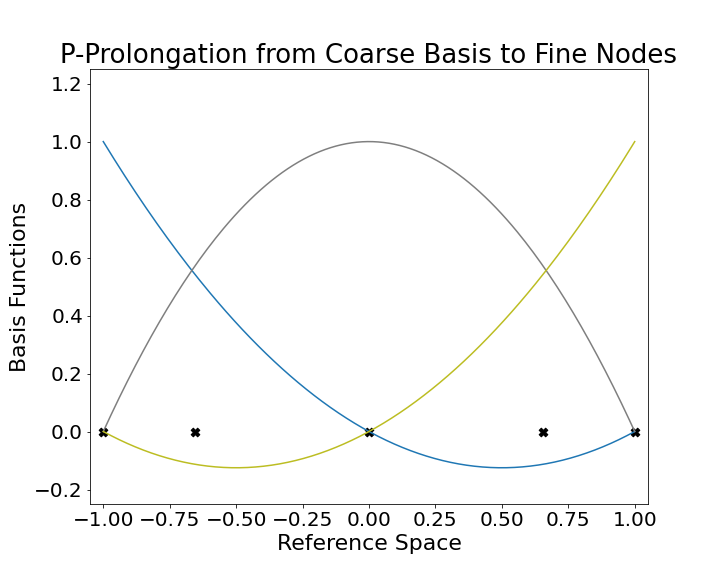
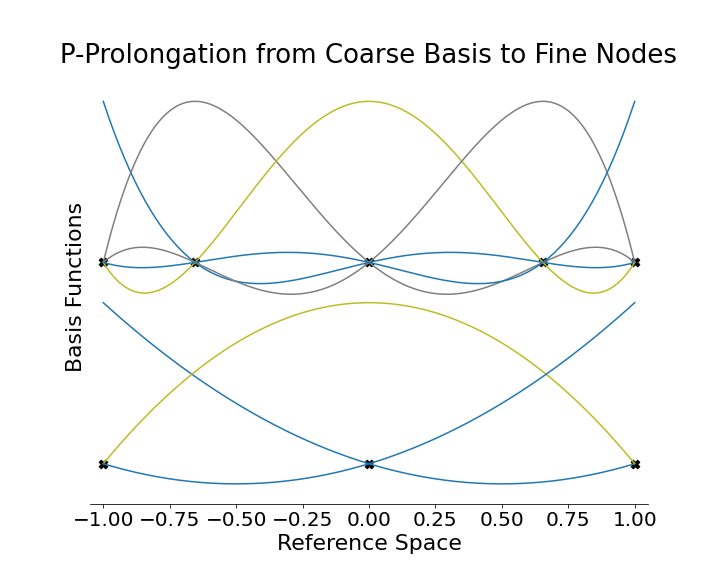
start on h-multigrid

diff --git a/source/03-LocalFourierAnalysis/03-multigrid.tex b/source/03-LocalFourierAnalysis/03-multigrid.tex
@@ -25,6 +25,7 @@ The grid transfer operators can be represented elementwise and can thus be easil
 
 The prolongation operator from the coarse to the fine grid interpolates low-order basis functions at the nodes for the high-order basis functions.
 Figure \ref{fig:pProlongation} shows the evaluation of second order basis function on the Gauss-Lobatto nodes for a fourth order basis.
+This basis evaluation operation will be extended for LFA of h-multigrid and BDDC.
 
 \begin{figure}[!ht]
   \centering
@@ -33,7 +34,7 @@ Figure \ref{fig:pProlongation} shows the evaluation of second order basis functi
   \label{fig:pProlongation}
 \end{figure}
 
-The prolongation operator can be therefore be represented by
+With this coarse to fine basis interpolation, the prolongation operator can be be represented by
 \begin{equation}
 \begin{tabular}{c}
 ${\color{burgundy}\mathbf{P}}_{\text{ctof}} = \mathbf{P}_f^T \mathbf{G}_f^T {\color{burgundy}\mathbf{P}}_e \mathbf{G}_c \mathbf{P}_c$\\
@@ -43,7 +44,15 @@ ${\color{burgundy}\mathbf{P}}_e = {\color{blue(ncs)}\mathbf{I}} {\color{applegre
 where ${\color{blue(ncs)}\mathbf{B}}_{ctof}$ is an interpolation operator from the coarse grid basis to the fine grid basis, $\mathbf{P}_f$ and $\mathbf{G}_f$ are the fine grid element assembly operators, $\mathbf{P}_c$ and $\mathbf{G}_c$ are the coarse grid element assembly operators, and ${\color{applegreen}\mathbf{D}}_{\text{scale}}$ is a scaling operator to account for node multiplicity across element interfaces.
 Restriction from the fine grid to the coarse grid is given by the transpose, ${\color{burgundy}\mathbf{R}}_{\text{ftoc}} = {\color{burgundy}\mathbf{P}}_{\text{ctof}}^T$.
 
-TODO: INSERT CHART SHOWING P-MULTIGRID PROLONGATION OPERATION
+It is useful to think of the p-prolongation operation as an interpolation operation between the coarse and fine grids, but in practice it can be easier to construct the prolongation basis ${\color{blue(ncs)}\mathbf{B}}_{ctof}$ from the coarse and fine grid interpolation operators, provided that both bases use the same quadrature space.
+\begin{equation}
+\begin{tabular}{c c}
+${\color{blue(ncs)}\mathbf{B}}_f = \mathbf{Q} \mathbf{R},$ & ${\color{blue(ncs)}\mathbf{B}}_{ctof} = \mathbf{R}^{-1} \mathbf{Q}^T {\color{blue(ncs)}\mathbf{B}}_c$
+\end{tabular}
+\label{eq:p_prolong_basis}
+\end{equation}
+In Equation \ref{eq:p_prolong_basis}, we form the interpolation operation between the coarse grid from the coarse grid interpotation operator and the QR factorization of the fine grid interpolation operator.
+Note that in the case of H1 Lagrange bases, this factorization will produce the same coarse to fine grid interpolation operator as evaluating the coarse grid basis functions at the fine grid nodes.
 
 Following the derivation from Section \ref{sec:lfahighorder}, we can derive the symbols of ${\color{burgundy}\mathbf{P}}_{\text{ctof}}$ and ${\color{burgundy}\mathbf{R}}_{\text{ftoc}}$.
 
@@ -70,4 +79,39 @@ The matrices $\mathbf{Q}_f$ and $\mathbf{Q}_c$ are the localization mappings for
 % -- H-Multigrid --------------------------------------------------------------
 \subsection{H-Multigrid}
 
-TODO: H MULTIGRID
+In h-multigrid, the different grids have the same polynomial order of finite elements but these elements are amalgamated into increasingly larger elements.
+For LFA of h-multigrid, we introduce the concept of macro-element bases.
+With macro-element bases, the grid transfer operators can be still represented elementwise and can thus be easily represented in the form of Equation \ref{eq:libceed_representation}.
+
+A marco-element basis is formed by amalgamating two or more finite element bases.
+Each micro-element has separate quadrature spaces, so the basis functions for each sub-element, or micro-element, are defined as zero on the portions of the domain not included in the given micro-element.
+In effect, the basis interpolation and gradient operations for the marco-element provide a micro-element restriction and micro-element basis operation together.
+
+\begin{figure}[!ht]
+  \centering
+  \includegraphics[width=0.48\textwidth]{../img/hProlongation}
+  \caption{H-Prolongation from Coarse Basis to Fine Basis Points}
+  \label{fig:hProlongation}
+\end{figure}
+
+Following the derivation from Section \ref{sec:lfahighorder}, we can derive the symbols of ${\color{burgundy}\mathbf{P}}_{\text{ctof}}$ and ${\color{burgundy}\mathbf{R}}_{\text{ftoc}}$.
+
+\begin{definition}
+The symbol of the h-prolongation operator is given by
+\begin{equation}
+\tilde{{\color{burgundy}\mathbf{P}}}_{\text{ctof}} \left( \theta \right) = \mathbf{Q}_f^T \left( {\color{burgundy}\mathbf{P}}_e \odot \left[ e^{\imath \sum_d \left( \mathbf{x}_{i, f} - \mathbf{x}_{j, c} \right) \mathbf{\theta} / \mathbf{h}} \right] \right) \mathbf{Q}_c
+\end{equation}
+where $i \in \left[ 0, 1, \dots, nelem * \left( p - 1 \right) + 1 \right]$, $h$ is the length of the macro-element, and $j \in \left[ 0, 1, \dots, p \right]$.
+The matrices $\mathbf{Q}_f$ and $\mathbf{Q}_c$ are the localization mappings for the fine and coarse grid, respectively, and the marco-element h-prolongation operator is given by ${\color{burgundy}\mathbf{P}}_e = {\color{blue(ncs)}\mathbf{I}} {\color{applegreen}\mathbf{D}}_{\text{scale}} {\color{blue(ncs)}\mathbf{B}}_{\text{ctof}}$.
+\label{def:h_prolongation_symbol}
+\end{definition}
+
+\begin{definition}
+The symbol of h-restriction operator is given by the expression
+\begin{equation}
+\tilde{{\color{burgundy}\mathbf{R}}}_{\text{ftoc}} \left( \theta \right) = \mathbf{Q}_c^T \left( {\color{burgundy}\mathbf{R}}_e \odot \left[ e^{\imath \sum_d \left( \mathbf{x}_{i, c} - \mathbf{x}_{j, f} \right) \mathbf{\theta} / \mathbf{h}} \right] \right) \mathbf{Q}_f
+\end{equation}
+where $i \in \left[ 0, 1, \dots, nelem * \left( p - 1 \right) + 1 \right]$, $h$ is the length of the macro-element, and $j \in \left[ 0, 1, \dots, p \right]$.
+The matrices $\mathbf{Q}_f$ and $\mathbf{Q}_c$ are the localization mappings for the fine and coarse grid, respectively, and the marco-element h-restriction operator is given by ${\color{burgundy}\mathbf{R}}_e = {\color{burgundy}\mathbf{P}}_e^T = {\color{blue(ncs)}\mathbf{B}}_{\text{ctof}}^T {\color{applegreen}\mathbf{D}}_{\text{scale}} {\color{blue(ncs)}\mathbf{I}}$.
+\label{def:h_restriction_symbol}
+\end{definition}
